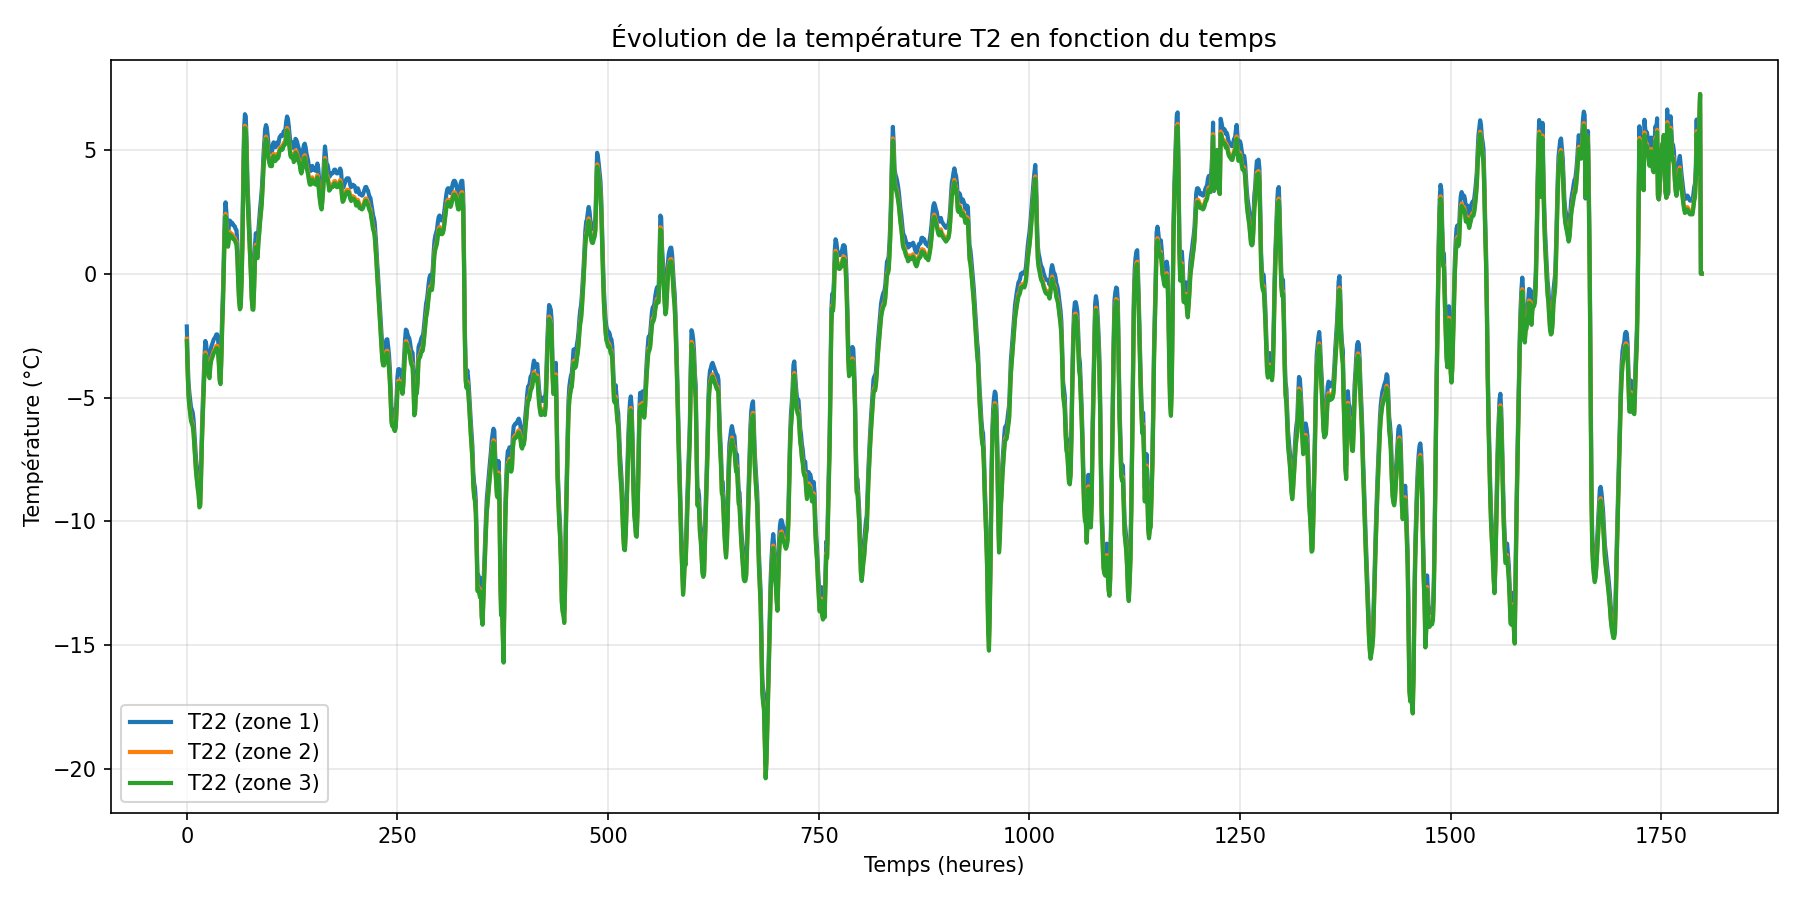
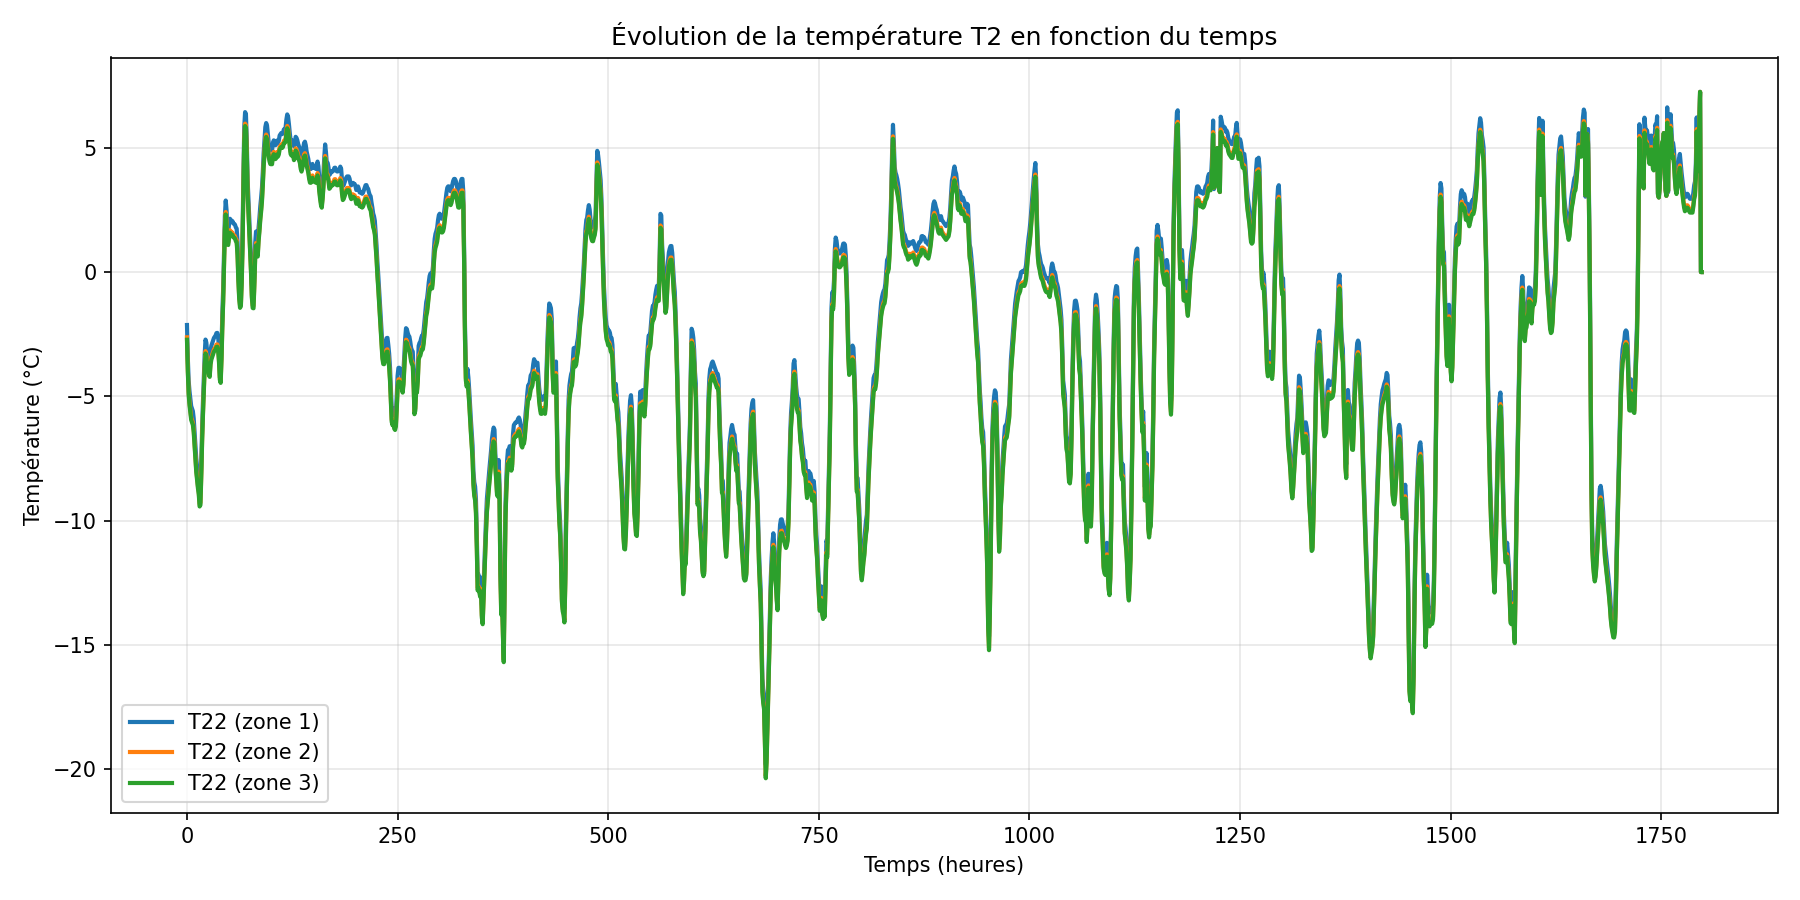
simulation v7

diff --git a/Simulation.py b/Simulation.py
@@ -89,8 +89,7 @@ for t in range (2,nt-1):
             [0, 0, 0, 0, 0, 0, 0, -1/R_beton3, ((C/dt)+(1/R_beton3))] #Noeud 33
         ], dtype=float)
         B = np.array([T_ext[t]/Rcond, -q12 - cp*(gap12 + gap23/2 + gap1)*T_ext[t], C*T[t-1,0]/dt, T_ext[t]/Rcond, -q34 -(gap23/2 + gap34 + gap45/2)*cp*T_ext[t] , C*T[t-1,4]/dt, T_ext[t]/Rcond, -q56 -(gap45/2 + gap56 + gap6)*cp*T_ext[t], C*T[t-1,7]/dt]).reshape(-1, 1)
-        T_sol = np.linalg.solve(A, B)
-        T[t] = T_sol.flatten()
+        T[t] = np.linalg.solve(A, B)
         n = t - 2
         T2[n, 0] = T[t, 1] #T12
         T2[n, 1] = T[t, 4] #T22
@@ -117,15 +116,14 @@ for t in range (2,nt-1):
             [1/Rconv, -((1/R_beton1)+(1/Rconv)) - cp*(a23+a32+(gap1 + gap12 + gap23/2)), 1/R_beton1, cp*(a23 + a32), 0, 0, 0, 0, 0], #Noeud 12
             [0, -1/R_beton1, ((C/dt)+(1/R_beton1)), 0, 0, 0, 0, 0, 0], #Noeud 13
             [0, 0, 0, ((1/Rconv)+(1/Rcond)), -1/Rconv, 0, 0, 0, 0], #Noeud 21
-            [0, cp*(a32 + a23), 0, 1/Rconv,  -((1/R_beton2)+(1/Rconv)) + -cp*(a32 + a23 + a45 + a54 + (gap23/2 + gap34 + gap45/2)), 1/R_beton2, 0, cp*(a45 + a54), 0], #Noeud 22
+            [0, cp*(a32 + a23), 0, 1/Rconv,  -((1/R_beton)+(1/Rconv)) + -cp*(a32 + a23 + a45 + a54 + (gap23/2 + gap34 + gap45/2)), 1/R_beton2, 0, cp*(a45 + a54), 0], #Noeud 22
             [0, 0, 0, 0, -1/R_beton2, ((C/dt)+(1/R_beton2)), 0, 0, 0], #Noeud 23
             [0, 0, 0, 0, 0, 0, ((1/Rconv)+(1/Rcond)), -1/Rconv, 0], #Noeud 31
             [0, 0, 0, 0, cp*(a45 + a54), 0, 1/Rconv,  -((1/R_beton3)+(1/Rconv)) - cp*(a45 + a54 + (gap45/2 + gap56 + gap6)), 1/R_beton3], #Noeud 32
             [0, 0, 0, 0, 0, 0, 0, -1/R_beton3, ((C/dt)+(1/R_beton3))] #Noeud 33
         ], dtype=float)
         B = np.array([T_ext[t]/Rcond, -q12 - cp*(gap12 + gap23/2 + gap1)*T_ext[t], C*T[t-1,0]/dt, T_ext[t]/Rcond, -q34 -(gap23/2 + gap34 + gap45/2)*cp*T_ext[t] , C*T[t-1,4]/dt, T_ext[t]/Rcond, -q56 -(gap45/2 + gap56 + gap6)*cp*T_ext[t], C*T[t-1,7]/dt]).reshape(-1, 1)
-        T_sol = np.linalg.solve(A, B)
-        T[t] = T_sol.flatten()
+        T[t]  = np.linalg.solve(A, B)
         n = t - 2
         T2[n, 0] = T[t, 1] #T12
         T2[n, 1] = T[t, 4] #T22
